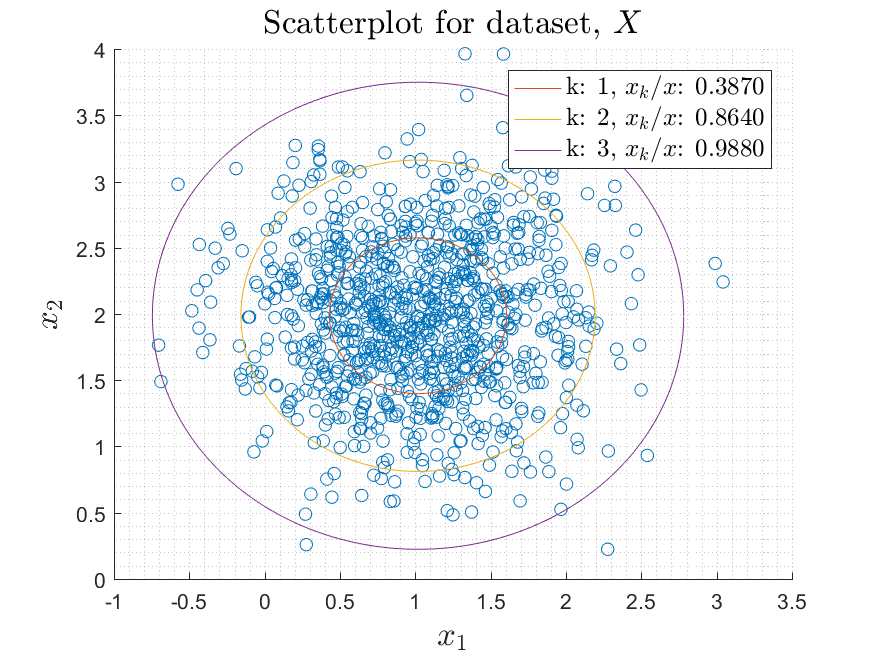
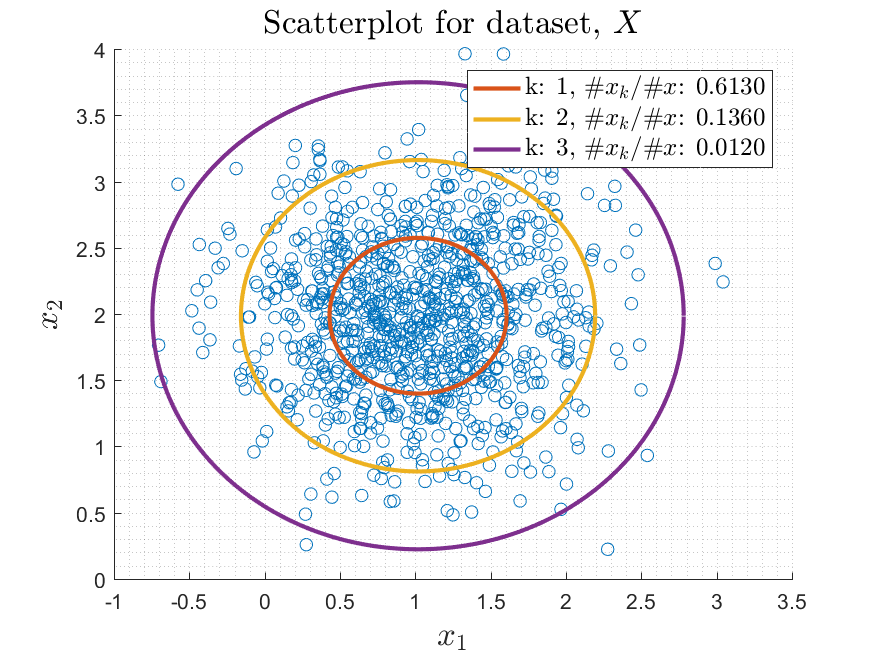
Updated code for 2.2 and some text + figures for 2.2

diff --git a/Assignment_1/paper/settings.tex b/Assignment_1/paper/settings.tex
@@ -1,17 +1,16 @@
 \usepackage{pdfpages}
 \usepackage{siunitx}
 \usepackage[utf8]{inputenc}
-%\usepackage[toc,page]{appendix}
 \usepackage{amsmath,mathrsfs}
 \usepackage{lmodern}
-%\usepackage{fullpage}
-%\usepackage{units}
+\usepackage{fullpage}
+\usepackage{units}
 \usepackage{float}
-%\usepackage{icomma}
+\usepackage{icomma}
 \usepackage{color}
 \usepackage{graphicx}
-%\usepackage{ gensymb }
-%\usepackage{bbm}
+\usepackage{ gensymb }
+\usepackage{bbm}
 \usepackage{verbatim}
 \usepackage[T1]{fontenc}
 \usepackage{caption}
@@ -19,17 +18,19 @@
 \usepackage{amssymb}
 \usepackage{hyperref}
 \usepackage{graphicx}
-%\usepackage{braket}
+\usepackage{braket}
 \usepackage{wrapfig}
 \usepackage[a4paper, total={6in, 9in}]{geometry}
-%%%\usepackage[parfill]{parskip}
-%%%\usepackage[table]{xcolor}
-%%%\usepackage[margin=1in]{geometry}
+%\usepackage[parfill]{parskip}
+%\usepackage[table]{xcolor}
+%\usepackage[margin=1in]{geometry}
 \usepackage{tabularx}
 \usepackage{enumitem}
-%\usepackage{microtype}
+\usepackage{microtype}
 \usepackage{eso-pic}
-\usepackage{subfigure}
+\usepackage{subcaption}
+\usepackage{comment}
+\usepackage{units}
 \usepackage{pgfplots} 
 \usetikzlibrary{backgrounds,automata}
 \newcommand{\backgroundpic}[3]{
@@ -45,10 +46,10 @@
 \usepackage[babel]{csquotes}
 
 
-%\usepackage[toc,page]{appendix}
-%\renewcommand\appendixtocname{Appendix}
-%\renewcommand\appendixpagename{Appendix}
-%\captionsetup[figure]{labelfont=bf,textfont=it,format=hang}
+\usepackage[toc,page]{appendix}
+\renewcommand\appendixtocname{Appendix}
+\renewcommand\appendixpagename{Appendix}
+\captionsetup[figure]{labelfont=bf,textfont=it,format=hang}
 
 \newcommand{\HRule}{\rule{\linewidth}{0.5mm}}
 
@@ -57,8 +58,9 @@
 \definecolor{myGreen}{HTML}{009900}
 \usepackage{pdfpages}
 
-%\usepackage{scrextend}
+\usepackage{scrextend}
 
-%\usepackage{polynom}
+\usepackage{polynom}
 
-%\setlength\parindent{0pt}
+\setlength\parindent{0pt}
+

diff --git a/Assignment_1/paper/main.tex b/Assignment_1/paper/main.tex
@@ -100,16 +100,48 @@ Figure~\ref{fig:prob21} shows the plotted data and how the data lies within the 
 \begin{figure}[H]
 	\centering
 	\includegraphics[width=0.65\textwidth]{Figures/plot2_1_scatter.png}
-	\caption{\label{fig:prob21}}
+	\caption{\label{fig:prob21}The dataset plotted with three circles with radius $k\sigma$, where $k\in {1,2,3}$ and $\sigma$ is the standard deviation of the given data.}
 \end{figure}
 
 \subsection*{Problem 2.2}
 
-%\begin{figure}[H]
-%	\centering
-%	\subfigure[$\alpha=\beta=1$]{\includegraphics[width=0.65\textwidth]{Figures/plot2_2_a1.png}}\quad
-%	\subfigure[$\alpha=10 \beta=1$]{\includegrapchics[width=0.65 \textwidth]{Figures/plot2_2_a2.png}}
-%	\caption{\label{fig:distribuition}}
-%\end{figure}
+\begin{figure}[H]
+    \centering
+    \begin{subfigure}[b]{0.65\textwidth}
+        \centering
+        \includegraphics[width=\textwidth]{Figures/plot2_2_a1.png}
+    \end{subfigure}
+    \begin{subfigure}[b]{0.65\textwidth}
+        \centering
+        \includegraphics[width=\textwidth]{Figures/plot2_2_a2.png}
+    \end{subfigure}
+    \caption{\label{fig:distributions} The prior vs. posterior distribution using the given data for different hyperparameters $\alpha$ and $\beta$.}
+\end{figure}
+
+\begin{equation}
+\sigma^2_{MAP}=\frac{\beta+\sigma^2_{MLE}}{\alpha+2}
+\end{equation}
+
+where
+
+\begin{equation}
+\sigma^2_{MLE}=\frac{1}{2}\left(x-\mu\right)^{T}\left(x-\mu\right)
+\end{equation}
+
+
+so we get,
+
+\begin{equation}
+\begin{array}{rrcl}
+\alpha=1, \beta = 1 \Rightarrow & \sigma^2_{MAP} & = & 0.5292\\
+\alpha=10, \beta = 1 \Rightarrow & \sigma^2_{MAP} & = & 0.1323
+\end{array}
+\end{equation}
+
+\begin{equation}
+B_{factor}=\frac{\sigma^2_{MAP;1}}{\sigma^2_{MAP;2}}=4
+\end{equation}
+
+so we would prefer the model using $\alpha=1$ and $\beta=1$.
 
 \end{document}

diff --git a/Assignment_1/main2_2.m b/Assignment_1/main2_2.m
@@ -14,22 +14,34 @@ clear all, close all, clc
 
 load('dataset1.mat');
 
-sigma_ml = length(x).*var(x);
-sigma_ml= mean(sigma_ml);
+[mu, sigma] = sge(x);
 
 prior_distribution = @(s,alpha,beta) beta.^alpha/gamma(alpha)*s.^(-alpha-1).*exp(-beta./s);
-posterior_distribution =@(s,alpha,beta) prior_distribution(s,alpha+1,beta+sqrt(sigma_ml));
+posterior_distribution =@(s,alpha,beta) prior_distribution(s,alpha+1,beta+sigma^2);
 
 
-x_axis = 0:0.01:10;
+x_axis_1 = 0:0.01:10;
 fig1 = figure(1)
-plot(x_axis,prior_distribution(x_axis,1,1))
+plot(x_axis_1,prior_distribution(x_axis_1,1,1))
 hold on
-plot(x_axis,posterior_distribution(x_axis,1,1))
+plot(x_axis_1,posterior_distribution(x_axis_1,1,1))
+
+legend({'Prior','Posterior'},'interpreter','latex')
+title_string_1 = sprintf('Prior and posterior distributions for $\\alpha$: %i, $\\beta$: %i',1,1);
+title(title_string_1,'interpreter','latex','fontsize',16)
+xlabel('Parameter, $\sigma^2=s$','interpreter','latex','fontsize',16)
+ylabel('PDF, $P(\sigma^2=s)$','interpreter','latex','fontsize',16)
 saveas(fig1,'./paper/Figures/plot2_2_a1.png')
+
+x_axis_2 = 0:0.001:1;
 fig2 = figure(2)
-plot(x_axis,prior_distribution(x_axis,10,1))
+plot(x_axis_2,prior_distribution(x_axis_2,10,1))
 hold on
-plot(x_axis,posterior_distribution(x_axis,10,1))
+plot(x_axis_2,posterior_distribution(x_axis_2,10,1))
+title_string_2 = sprintf('Prior and posterior distributions for $\\alpha$: %i, $\\beta$: %i',10,1);
+title(title_string_2,'interpreter','latex','fontsize',16)
+xlabel('Parameter, $\sigma^2=s$','interpreter','latex','fontsize',16)
+ylabel('PDF, $P(\sigma^2=s)$','interpreter','latex','fontsize',16)
+legend({'Prior','Posterior'},'interpreter','latex')
 saveas(fig2,'./paper/Figures/plot2_2_a2.png')
 

diff --git a/Assignment_1/plot_data.m b/Assignment_1/plot_data.m
@@ -19,7 +19,7 @@ legendIterator=1;
 for k=1:3
     h=[h plot_circle(mu,k*sigma)];
     inside= sum(inside_circle(x,mu,k*sigma));
-    s = sprintf('k: %i, $x_k$/$x$: %.4f',k,inside/size_X(1));
+    s = sprintf('k: %i, \\#$x_k$/\\#$x$: %.4f',k,1-inside/size_X(1));
     legendInfo{legendIterator} = [s];
     legendIterator = legendIterator +1;
 end

diff --git a/Assignment_1/plot_circle.m b/Assignment_1/plot_circle.m
@@ -4,6 +4,6 @@ hold on
 
 theta = 0:0.01:2*pi;
 
-h=plot(radius*cos(theta)+center(1),radius*sin(theta)+center(2));
+h=plot(radius*cos(theta)+center(1),radius*sin(theta)+center(2),'linewidth',2);
 
 end

diff --git a/Assignment_1/inside_circle.m b/Assignment_1/inside_circle.m
@@ -1,6 +1,6 @@
 function inside = inside_circle(x,center,radius)
 
-inside = (hypot(x(:,1)-center(1),x(:,2)-center(2))< radius)
+inside = (hypot(x(:,1)-center(1),x(:,2)-center(2))< radius);
 
 
 end
